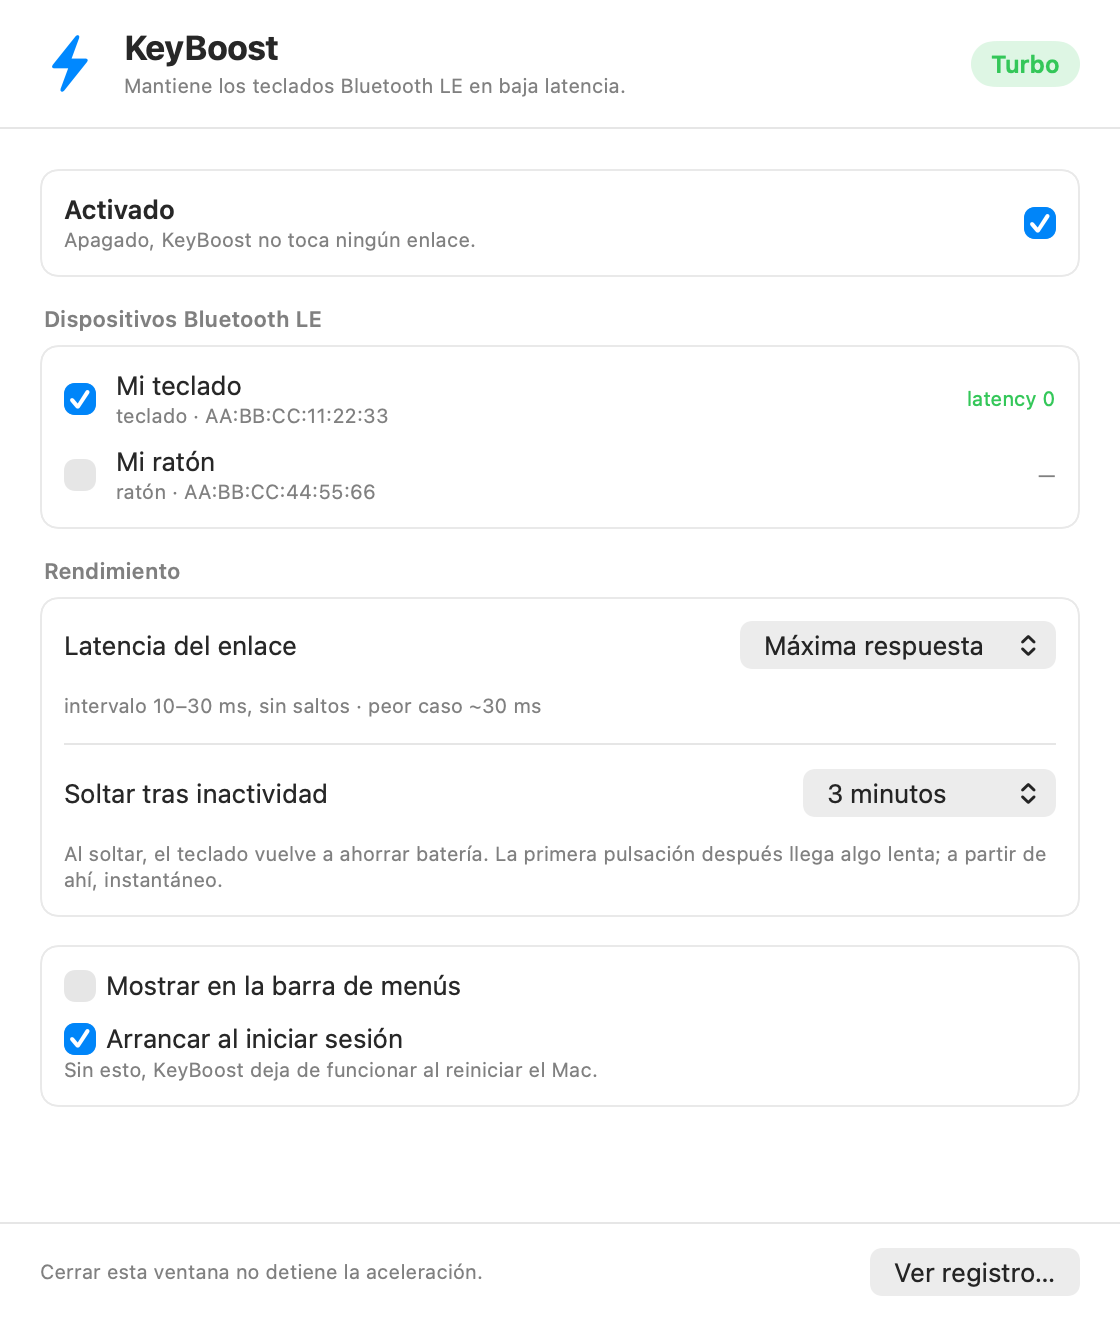
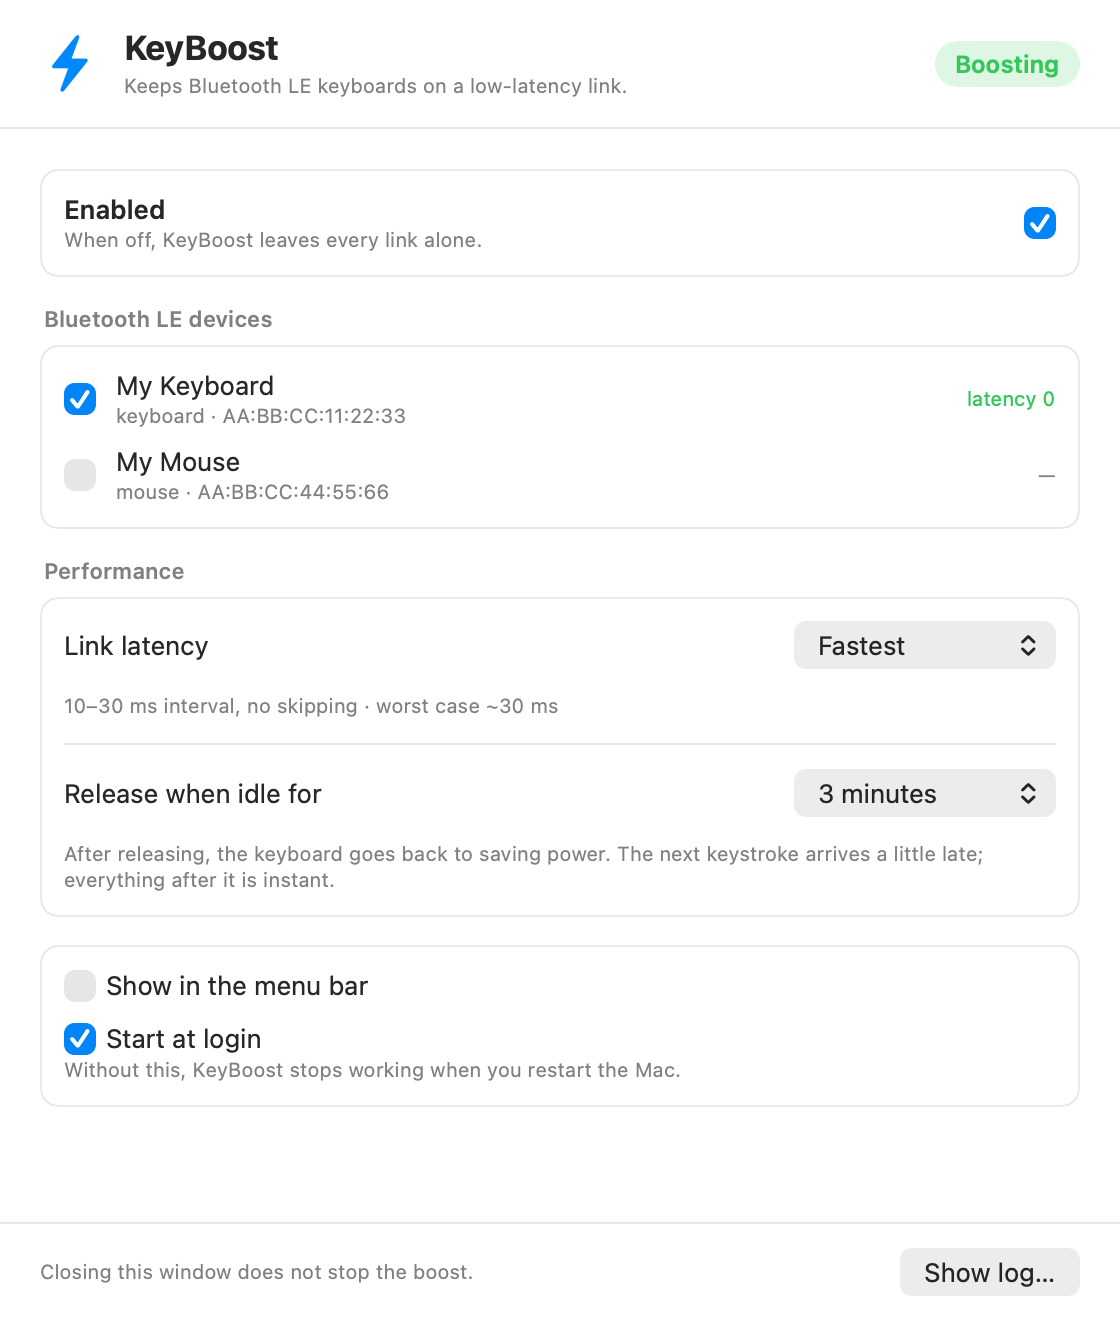
Localise the interface (English and Spanish) and add release artifacts
The UI now uses English as its base language with a Spanish translation
alongside, picked from the system language. Strings live in
Resources/{en,es}.lproj and are copied into both bundles at build time, since
each process reads its own.

scripts/make-release.sh produces a drag-and-drop DMG and a ZIP. Both are signed
ad-hoc on purpose: a personal certificate embeds the developer's name and email
in the binary, and macOS shows them in Login Items to everyone who installs it.
Without Apple notarisation a self-signed certificate buys a third party nothing
over ad-hoc anyway.

Also switch the private selectors to NSSelectorFromString, which is the right
tool for selectors with no public declaration and silences the build warnings.

diff --git a/Sources/App/SettingsView.swift b/Sources/App/SettingsView.swift
@@ -51,7 +51,7 @@ struct SettingsView: View {
                 .frame(width: 30)
             VStack(alignment: .leading, spacing: 2) {
                 Text("KeyBoost").font(.title2).bold()
-                Text("Mantiene los teclados Bluetooth LE en baja latencia.")
+                Text("Keeps Bluetooth LE keyboards on a low-latency link.")
                     .font(.caption).foregroundStyle(.secondary)
             }
             Spacer()
@@ -70,8 +70,8 @@ struct SettingsView: View {
         section(nil) {
             HStack {
                 VStack(alignment: .leading, spacing: 1) {
-                    Text("Activado").bold()
-                    Text("Apagado, KeyBoost no toca ningún enlace.")
+                    Text("Enabled").bold()
+                    Text("When off, KeyBoost leaves every link alone.")
                         .font(.caption).foregroundStyle(.secondary)
                 }
                 Spacer()
@@ -84,10 +84,10 @@ struct SettingsView: View {
     }
 
     private var devices: some View {
-        section("Dispositivos Bluetooth LE") {
+        section(L("Bluetooth LE devices")) {
             VStack(alignment: .leading, spacing: 8) {
                 if model.status.devices.isEmpty {
-                    Text("No se ve ningún dispositivo conectado.")
+                    Text("No connected device in sight.")
                         .foregroundStyle(.secondary).font(.callout)
                         .frame(maxWidth: .infinity, alignment: .leading)
                 } else {
@@ -115,9 +115,9 @@ struct SettingsView: View {
     }
 
     private var performance: some View {
-        section("Rendimiento") {
+        section(L("Performance")) {
             VStack(alignment: .leading, spacing: 12) {
-                row("Latencia del enlace") {
+                row(L("Link latency")) {
                     Picker("", selection: Binding(
                         get: { model.settings.latencyLevel },
                         set: { value in model.edit { $0.latencyLevel = value } })) {
@@ -127,16 +127,14 @@ struct SettingsView: View {
                         }
                         .labelsHidden()
                 }
-                if let choice = model.latencyChoice {
-                    caption("\(choice.detail) · peor caso ~\(choice.worstCaseMs) ms")
-                }
+                if let detail = model.latencyDetail { caption(detail) }
                 if let text = model.latencyWarning {
                     warning(text, level: model.settings.latencyLevel == 2 ? .red : .orange)
                 }
 
                 Divider()
 
-                row("Soltar tras inactividad") {
+                row(L("Release when idle for")) {
                     Picker("", selection: Binding(
                         get: { model.settings.idleReleaseSeconds },
                         set: { value in model.edit { $0.idleReleaseSeconds = value } })) {
@@ -146,8 +144,8 @@ struct SettingsView: View {
                         }
                         .labelsHidden()
                 }
-                caption("Al soltar, el teclado vuelve a ahorrar batería. La primera pulsación "
-                        + "después llega algo lenta; a partir de ahí, instantáneo.")
+                caption(L("After releasing, the keyboard goes back to saving power. The next "
+                          + "keystroke arrives a little late; everything after it is instant."))
             }
         }
     }
@@ -155,14 +153,14 @@ struct SettingsView: View {
     private var options: some View {
         section(nil) {
             VStack(alignment: .leading, spacing: 10) {
-                Toggle("Mostrar en la barra de menús", isOn: Binding(
+                Toggle("Show in the menu bar", isOn: Binding(
                     get: { model.settings.showMenuBarIcon },
                     set: { value in model.edit { $0.showMenuBarIcon = value } }))
                 VStack(alignment: .leading, spacing: 1) {
-                    Toggle("Arrancar al iniciar sesión", isOn: Binding(
+                    Toggle("Start at login", isOn: Binding(
                         get: { model.launchAtLogin },
                         set: { model.setLaunchAtLogin($0) }))
-                    caption("Sin esto, KeyBoost deja de funcionar al reiniciar el Mac.")
+                    caption(L("Without this, KeyBoost stops working when you restart the Mac."))
                 }
             }
             .frame(maxWidth: .infinity, alignment: .leading)
@@ -171,10 +169,10 @@ struct SettingsView: View {
 
     private var footer: some View {
         HStack {
-            Text("Cerrar esta ventana no detiene la aceleración.")
+            Text("Closing this window does not stop the boost.")
                 .font(.caption).foregroundStyle(.secondary)
             Spacer()
-            Button("Ver registro…") {
+            Button("Show log…") {
                 NSWorkspace.shared.selectFile(Paths.log.path, inFileViewerRootedAtPath: "")
             }
         }

diff --git a/Sources/App/Model.swift b/Sources/App/Model.swift
@@ -45,32 +45,19 @@ final class Model: ObservableObject {
         if let issue = status.bluetooth.problem { return issue }
         if !status.agentAlive {
             return launchAtLogin
-                ? "El motor no está respondiendo. Prueba a desactivar y reactivar el arranque automático."
-                : "El motor no está corriendo. Activa «Arrancar al iniciar sesión» para ponerlo en marcha."
+                ? L("The engine is not responding. Try turning “Start at login” off and on again.")
+                : L("The engine is not running. Turn on “Start at login” to start it.")
         }
         if !status.apiAvailable {
-            return "Esta versión de macOS ya no expone el ajuste de latencia. KeyBoost no puede acelerar nada."
+            return L("This version of macOS no longer exposes the latency setting. KeyBoost cannot help.")
         }
         return nil
     }
 
-    var latencyChoice: Settings.LatencyChoice? {
-        Settings.latencyChoices.first { $0.level == settings.latencyLevel }
-    }
-
-    /// Advertencia proporcional: el nivel más alto es literalmente peor que no usar la app.
-    var latencyWarning: String? {
-        guard let choice = latencyChoice, !choice.isSafe else { return nil }
-        let base = "Peor caso ~\(choice.worstCaseMs) ms en vez de 30. "
-        return choice.level == 2
-            ? base + "Es más lento que el fallo que KeyBoost corrige (345 ms): así el teclado irá peor que sin la app."
-            : base + "Se nota al teclear, pero ahorra batería."
-    }
-
     var headline: String {
-        if !settings.enabled { return "Desactivado" }
-        if problem != nil { return "Detenido" }
-        return status.active ? "Turbo" : "En reposo"
+        if !settings.enabled { return L("Disabled") }
+        if problem != nil { return L("Stopped") }
+        return status.active ? L("Boosting") : L("Idle")
     }
 
     var isBoosting: Bool { settings.enabled && problem == nil && status.active }
@@ -80,11 +67,29 @@ final class Model: ObservableObject {
         return status.active ? .green : .orange
     }
 
+    var latencyChoice: Settings.LatencyChoice? {
+        Settings.latencyChoices.first { $0.level == settings.latencyLevel }
+    }
+
+    /// Línea bajo el desplegable de latencia: "intervalo … · peor caso ~N ms".
+    var latencyDetail: String? {
+        guard let choice = latencyChoice else { return nil }
+        return L("%@ · worst case ~%d ms", choice.detail, choice.worstCaseMs)
+    }
+
+    /// Advertencia proporcional: el nivel más alto es literalmente peor que no usar la app.
+    var latencyWarning: String? {
+        guard let choice = latencyChoice, !choice.isSafe else { return nil }
+        return choice.level == 2
+            ? L("Worst case ~%d ms instead of 30. That is slower than the bug KeyBoost fixes (345 ms), so your keyboard will be worse off than without the app.", choice.worstCaseMs)
+            : L("Worst case ~%d ms instead of 30. Noticeable while typing, but easier on the battery.", choice.worstCaseMs)
+    }
+
     /// Texto de estado por dispositivo, en la columna derecha de la lista.
     func detail(for device: DeviceStatus) -> String {
-        if !device.present { return "ausente" }
+        if !device.present { return L("away") }
         if !settings.boosts(device.address) { return "—" }
-        if !settings.enabled { return "desactivado" }
-        return device.boosted ? "latency 0" : "en reposo"
+        if !settings.enabled { return L("off") }
+        return device.boosted ? L("latency 0") : L("idle")
     }
 }

diff --git a/Sources/Agent/MenuBarController.swift b/Sources/Agent/MenuBarController.swift
@@ -29,10 +29,10 @@ final class MenuBarController {
 
         let menu = NSMenu()
         let headline: String
-        if !settings.enabled                      { headline = "KeyBoost — desactivado" }
+        if !settings.enabled                      { headline = L("KeyBoost — disabled") }
         else if let problem = status.bluetooth.problem { headline = problem }
-        else if status.active                     { headline = "KeyBoost — turbo" }
-        else                                      { headline = "KeyBoost — en reposo" }
+        else if status.active                     { headline = L("KeyBoost — boosting") }
+        else                                      { headline = L("KeyBoost — idle") }
         let header = NSMenuItem(title: headline, action: nil, keyEquivalent: "")
         header.isEnabled = false
         menu.addItem(header)
@@ -41,7 +41,7 @@ final class MenuBarController {
         if !chosen.isEmpty {
             menu.addItem(.separator())
             for device in chosen {
-                let detail = !device.present ? "ausente" : (device.boosted ? "latency 0" : "en reposo")
+                let detail = !device.present ? L("away") : (device.boosted ? L("latency 0") : L("idle"))
                 let entry = NSMenuItem(title: "\(device.name) — \(detail)", action: nil, keyEquivalent: "")
                 entry.isEnabled = false
                 menu.addItem(entry)
@@ -49,16 +49,16 @@ final class MenuBarController {
         }
 
         menu.addItem(.separator())
-        let toggle = NSMenuItem(title: "Activado", action: #selector(toggleEnabled), keyEquivalent: "")
+        let toggle = NSMenuItem(title: L("Enabled"), action: #selector(toggleEnabled), keyEquivalent: "")
         toggle.target = self
         toggle.state = settings.enabled ? .on : .off
         menu.addItem(toggle)
 
-        let open = NSMenuItem(title: "Abrir KeyBoost…", action: #selector(openApp), keyEquivalent: "")
+        let open = NSMenuItem(title: L("Open KeyBoost…"), action: #selector(openApp), keyEquivalent: "")
         open.target = self
         menu.addItem(open)
 
-        let hide = NSMenuItem(title: "Ocultar este icono", action: #selector(hideIcon), keyEquivalent: "")
+        let hide = NSMenuItem(title: L("Hide this icon"), action: #selector(hideIcon), keyEquivalent: "")
         hide.target = self
         menu.addItem(hide)
 

diff --git a/Sources/Shared/Settings.swift b/Sources/Shared/Settings.swift
@@ -24,19 +24,21 @@ struct Settings: Codable, Equatable {
         var isSafe: Bool { level == 0 }
     }
 
-    static let latencyChoices: [LatencyChoice] = [
-        .init(level: 0, label: "Máxima respuesta",
-              detail: "intervalo 10–30 ms, sin saltos", worstCaseMs: 30),
-        .init(level: 1, label: "Equilibrada",
-              detail: "intervalo 100–120 ms, 1 salto", worstCaseMs: 240),
-        .init(level: 2, label: "Mínimo consumo",
-              detail: "intervalo 290–320 ms, 1 salto", worstCaseMs: 640),
-    ]
+    static var latencyChoices: [LatencyChoice] {
+        [
+            .init(level: 0, label: L("Fastest"),
+                  detail: L("10–30 ms interval, no skipping"), worstCaseMs: 30),
+            .init(level: 1, label: L("Balanced"),
+                  detail: L("100–120 ms interval, 1 skip"), worstCaseMs: 240),
+            .init(level: 2, label: L("Lowest power"),
+                  detail: L("290–320 ms interval, 1 skip"), worstCaseMs: 640),
+        ]
+    }
 
-    static let idleChoices: [(label: String, seconds: Int)] = [
-        ("30 segundos", 30), ("1 minuto", 60), ("3 minutos", 180),
-        ("10 minutos", 600), ("Nunca soltar", 0),
-    ]
+    static var idleChoices: [(label: String, seconds: Int)] {
+        [(L("30 seconds"), 30), (L("1 minute"), 60), (L("3 minutes"), 180),
+         (L("10 minutes"), 600), (L("Never release"), 0)]
+    }
 
     static func load() -> Settings {
         JSONStore.read(Settings.self, from: Paths.settings) ?? Settings()

diff --git a/Sources/Shared/Status.swift b/Sources/Shared/Status.swift
@@ -5,8 +5,8 @@ enum DeviceKind: String, Codable {
 
     var label: String {
         switch self {
-        case .keyboard: return "teclado"
-        case .pointing: return "ratón"
+        case .keyboard: return L("keyboard")
+        case .pointing: return L("mouse")
         case .other:    return "—"
         }
     }
@@ -19,10 +19,10 @@ enum BluetoothState: String, Codable {
     var problem: String? {
         switch self {
         case .on:           return nil
-        case .off:          return "Bluetooth está apagado."
-        case .unauthorized: return "Falta permiso de Bluetooth: Ajustes › Privacidad y seguridad › Bluetooth."
-        case .unsupported:  return "Este Mac no soporta Bluetooth LE."
-        case .unknown:      return "Estado de Bluetooth desconocido."
+        case .off:          return L("Bluetooth is turned off.")
+        case .unauthorized: return L("Bluetooth permission missing: Settings › Privacy & Security › Bluetooth.")
+        case .unsupported:  return L("This Mac does not support Bluetooth LE.")
+        case .unknown:      return L("Bluetooth state unknown.")
         }
     }
 }

diff --git a/Sources/Agent/CBPrivate.swift b/Sources/Agent/CBPrivate.swift
@@ -23,9 +23,11 @@ import Foundation
     func retrieveAddress(forPeripheral peripheral: CBPeripheral) -> NSData?
 }
 
-private let selSetLatency = Selector(("setDesiredConnectionLatency:forPeripheral:"))
-private let selRetrieveAll = Selector(("retrieveConnectedPeripheralsWithServices:allowAll:"))
-private let selAddress = Selector(("retrieveAddressForPeripheral:"))
+// NSSelectorFromString y no #selector: estos selectores son privados y no existen
+// en ninguna cabecera pública contra la que el compilador pueda comprobarlos.
+private let selSetLatency = NSSelectorFromString("setDesiredConnectionLatency:forPeripheral:")
+private let selRetrieveAll = NSSelectorFromString("retrieveConnectedPeripheralsWithServices:allowAll:")
+private let selAddress = NSSelectorFromString("retrieveAddressForPeripheral:")
 
 extension CBCentralManager {
     private var priv: CBCentralPrivate { unsafeBitCast(self, to: CBCentralPrivate.self) }

diff --git a/Sources/Shared/Localization.swift b/Sources/Shared/Localization.swift
@@ -1,0 +1,15 @@
+import Foundation
+
+/// Atajo para texto traducible. Las claves son el texto en inglés, que es el idioma base.
+///
+/// En SwiftUI, `Text("literal")` ya se traduce solo porque el literal se convierte en
+/// `LocalizedStringKey`. Esta función es para lo demás: menús de AppKit y cadenas que
+/// hay que componer antes de mostrarlas.
+func L(_ key: String) -> String {
+    NSLocalizedString(key, comment: "")
+}
+
+/// Igual, pero con formato. Los marcadores van en el propio `.strings`.
+func L(_ key: String, _ arguments: CVarArg...) -> String {
+    String(format: NSLocalizedString(key, comment: ""), arguments: arguments)
+}

diff --git a/README.md b/README.md
@@ -59,10 +59,16 @@ the way when you are not typing.
   <img src="docs/screenshot.png" width="620" alt="KeyBoost window">
 </p>
 
+<p align="center">
+  <sub>English and Spanish, following your system language —
+  <a href="docs/screenshot-es.png">Spanish</a>.</sub>
+</p>
+
 ## Install
 
-**Download** the latest release, unzip, and drag `KeyBoost.app` to your Applications folder.
-The background engine ships inside the app — there is nothing else to install.
+**Download the latest release**, open the `.dmg`, and drag `KeyBoost.app` to Applications.
+The background engine ships inside the app — there is nothing else to install. A `.zip` is
+available too if you prefer.
 
 Because the app is not notarised, macOS will refuse the first launch. Right-click the app and pick
 **Open**, then confirm. You only do this once. If macOS still blocks it:
@@ -148,8 +154,13 @@ rm -rf /Applications/KeyBoost.app ~/Library/Application\ Support/KeyBoost
   `responds(to:)`, so a future macOS that removes them makes KeyBoost stop helping rather than
   crash — but it will stop helping.
 - **Built for macOS 27.** The bug it works around does not exist on earlier versions.
-- **The interface is in Spanish.** Localisation is welcome.
 - **Not notarised.** See [Install](#install).
+
+## Contributing
+
+Translations are the easiest way to help: copy `Resources/en.lproj/Localizable.strings` to a new
+`<language>.lproj`, translate the right-hand side, and add the language code to
+`CFBundleLocalizations` in `build.sh`. The app currently ships English and Spanish.
 
 ## License
 
